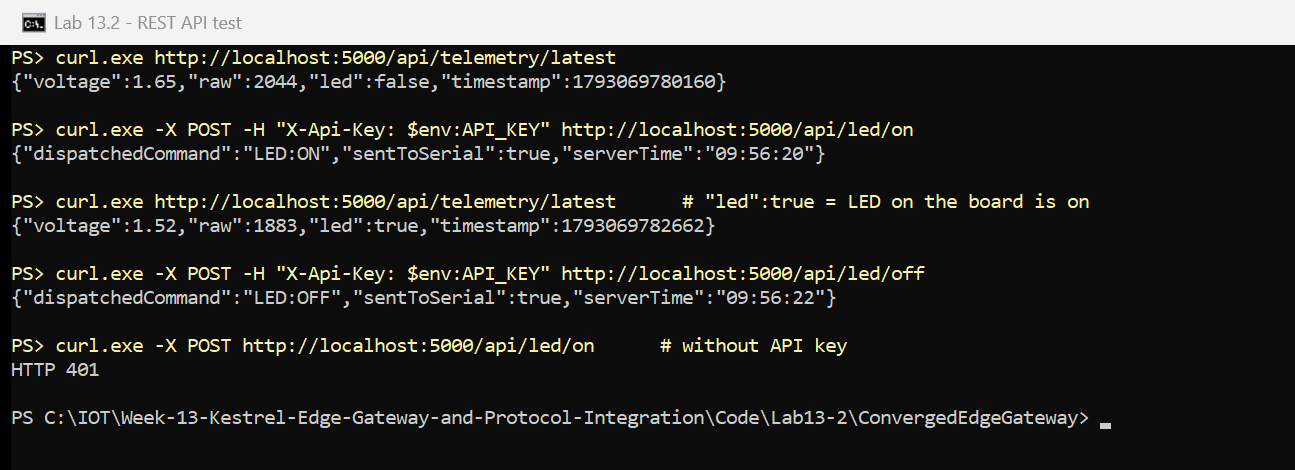
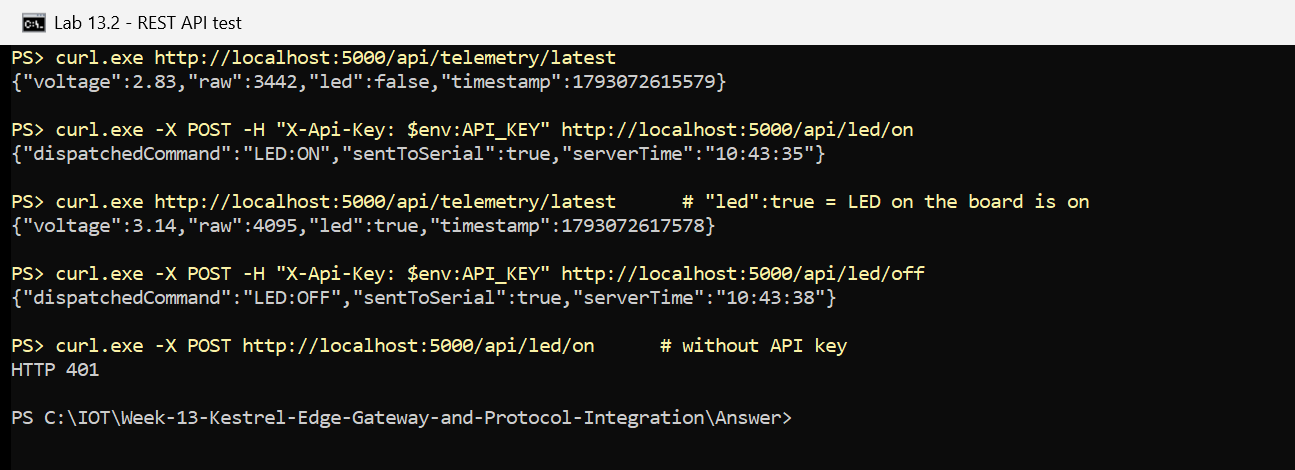
update: answer take pictures for lab 13-2.

diff --git a/Answer/Lab13-2.md b/Answer/Lab13-2.md
@@ -6,11 +6,11 @@
 
 | รายการ | ค่า |
 | :--- | :--- |
-| บอร์ด | ESP32-D0WD-V3 (revision v3.1), USB-UART Silicon Labs CP210x ที่ **COM3** |
+| บอร์ด | ESP32-D0WD-V3 (revision v3.1, MAC `14:33:5c:0e:7a:a8`), USB-UART Silicon Labs CP210x ที่ **COM3** |
 | ESP-IDF | v6.1 (เฟิร์มแวร์ `Code/Lab13-2/esp32_serial_bridge`) |
 | ความเร็ว Serial | 115200 bps, 1 บรรทัด JSON ทุก 500 ms |
 | LED | GPIO2 (LED บนบอร์ด) |
-| ค่าเซนเซอร์ | **สุ่มค่า** (`CONFIG_LAB_SIMULATE_ADC=y`) เพราะไม่ได้ต่อ Potentiometer ที่ GPIO34 ดูหมายเหตุข้อ 2.1 |
+| เซนเซอร์ | ตัวต้านทานปรับค่าได้ (Potentiometer) ขากลาง → **GPIO34** (ADC1_CH6), ขาริม → 3V3 / GND อ่านค่าจริง (`CONFIG_LAB_SIMULATE_ADC=n`) |
 | .NET / แพ็กเกจ | .NET 10, MQTTnet 4.3.7.1207, System.IO.Ports 10.0.12 |
 | Mosquitto CLI | 2.1.2 (ใช้เป็น client ทดสอบเท่านั้น) |
 | วันที่ทดลอง | 27/10/2026 |
@@ -26,13 +26,14 @@ idf.py -p COM3 build flash
 
 ผล: `Chip type: ESP32-D0WD-V3 (revision v3.1)` และ `Hash of data verified.`
 
-ตอนแรกอ่านค่า GPIO34 ได้ `raw = 0` ตลอด เพราะไม่ได้ต่อ Potentiometer จึงเปิดตัวเลือก `CONFIG_LAB_SIMULATE_ADC=y`
-ใน `sdkconfig.defaults` ให้บอร์ด **สุ่มค่า ADC แบบ random walk** (เปลี่ยนครั้งละ −150..+150 จากค่าเดิม ในช่วง 0–4095)
-ส่วนอื่นทำงานจริงทั้งหมด ได้แก่ การส่ง JSON ทางสาย USB, การรับคำสั่ง `LED:ON`/`LED:OFF` และการเปิด-ปิด LED บน GPIO2
-ถ้าต่อ Potentiometer แล้ว ให้แก้เป็น `CONFIG_LAB_SIMULATE_ADC=n` แล้วแฟลชใหม่
+เฟิร์มแวร์อ่าน ADC 12-bit (0–4095) ที่ Attenuation 12 dB เฉลี่ย 8 ครั้งต่อค่า และแปลงเป็นแรงดันด้วย ADC calibration (line fitting)
 
-ทดสอบสาย Serial ก่อนต่อเกตเวย์: บอร์ดส่ง `{"voltage":1.62,"raw":2013,"led":0}` ทุก 500 ms และเมื่อส่ง `LED:ON`
-ค่า `"led"` เปลี่ยนเป็น `1` และ LED บนบอร์ดติด
+ทดสอบสาย Serial ก่อนต่อเกตเวย์: บอร์ดส่ง `{"voltage":1.30,"raw":1603,"led":0}` ทุก 500 ms ค่าเปลี่ยนตามการหมุน
+และเมื่อส่ง `LED:ON` ค่า `"led"` เปลี่ยนเป็น `1` และ LED บนบอร์ดติด
+
+> ตอนแรกอ่านค่าได้ `raw = 0` ตลอด ตรวจด้วยเฟิร์มแวร์ชั่วคราวที่สแกนทุกขา ADC1 พบว่า ADC ปกติ แต่ GPIO34 ติดกับ GND
+> หลังแก้สายตัวต้านทานแล้วอ่านค่าได้ปกติ (เฟิร์มแวร์มีตัวเลือก `CONFIG_LAB_SIMULATE_ADC=y` ไว้สุ่มค่าเมื่อไม่มีตัวต้านทาน
+> แต่การทดลองนี้ใช้ค่าจริง)
 
 ### 2.2 ติดตั้งคอมโพเนนต์และเขียนโค้ด (กิจกรรม 13-2.1 – 13-2.3)
 
@@ -91,15 +92,15 @@ curl.exe -X POST -H "X-Api-Key: $env:API_KEY" http://localhost:5000/api/led/on
 | ขั้นตอน | ผลที่คาดหวัง (ใบงาน) | ผลจริง | ผ่าน/ไม่ผ่าน |
 | :--- | :--- | :--- | :--- |
 | `dotnet run` ขณะเสียบบอร์ด | เปิด Serial Port ได้ | `✅ เชื่อมต่อฮาร์ดแวร์ Serial Port COM3 สำเร็จ!` | ☑ ผ่าน |
-| `curl.exe .../api/telemetry/latest` | ได้ JSON แรงดันทันที | `{"voltage":1.65,"raw":2044,"led":false,"timestamp":...}` | ☑ ผ่าน |
-| `mosquitto_sub iot/esp32/telemetry` | ข้อมูลจาก Serial เข้า MQTT อัตโนมัติ | ได้ข้อความทุก 500 ms เช่น `{"voltage":1.24,"raw":1534,"led":false,"ts":...}` | ☑ ผ่าน |
+| `curl.exe .../api/telemetry/latest` | ได้ JSON แรงดันทันที | `{"voltage":2.83,"raw":3442,"led":false,"timestamp":...}` | ☑ ผ่าน |
+| `mosquitto_sub iot/esp32/telemetry` | ข้อมูลจาก Serial เข้า MQTT อัตโนมัติ | ได้ข้อความทุก 500 ms ขณะหมุนตัวต้านทาน แรงดันเพิ่มจาก 0.53 → 0.65 → 0.76 → 0.90 → 1.05 → 1.26 → 1.38 → 1.59 V (raw 483 → 1782) | ☑ ผ่าน |
 | `POST /api/led/on` | `LED:ON` ถูกส่งเข้าบอร์ด ไฟติด | `"dispatchedCommand":"LED:ON","sentToSerial":true` LED GPIO2 ติด และ telemetry ถัดมาเป็น `"led":true` | ☑ ผ่าน |
 | `POST /api/led/off` | ไฟดับ | `"sentToSerial":true` LED ดับ telemetry กลับเป็น `"led":false` | ☑ ผ่าน |
 | `POST /api/led/on` ไม่มี API key (ทดสอบเพิ่ม) | ถูกปฏิเสธ | `HTTP 401` | ☑ ผ่าน |
 
 **สรุป:** เกตเวย์ตัวเดียวแปลงข้อมูลจากสาย USB-UART ของ ESP32 ออกไปได้ 2 ทาง คือ MQTT topic (สำหรับ client ที่ subscribe)
 และ REST API (สำหรับระบบภายนอกที่ขอค่าล่าสุด) ทั้งยังส่งคำสั่งจาก REST ย้อนกลับลงสาย Serial ไปควบคุม LED ได้จริง
-(ค่าแรงดันในการทดลองนี้เป็นค่าสุ่มจากบอร์ด เพราะไม่ได้ต่อ Potentiometer)
+ค่าแรงดันทั้งหมดอ่านจากตัวต้านทานปรับค่าได้ที่ GPIO34 จริง และเปลี่ยนตามการหมุนแบบเรียลไทม์
 
 ## 4. คำถามท้ายการทดลอง
 

diff --git a/Answer/README.md b/Answer/README.md
@@ -5,7 +5,7 @@
 | ใบงาน | หัวข้อ | ไฟล์บันทึก | โค้ดที่ใช้ | สถานะ |
 | :--- | :--- | :--- | :--- | :--- |
 | 13.1 | Embedded MQTT Broker และ Client ภายใน Kestrel (MQTTnet) | [Lab13-1.md](Lab13-1.md) | `Code/Lab13-1` | ✅ ทดลองแล้ว |
-| 13.2 | Hardware Serial → MQTT และ REST Bridge | [Lab13-2.md](Lab13-2.md) | `Code/Lab13-2` | ✅ ทดลองแล้ว (บอร์ดจริง, ค่า ADC สุ่ม) |
+| 13.2 | Hardware Serial → MQTT และ REST Bridge | [Lab13-2.md](Lab13-2.md) | `Code/Lab13-2` | ✅ ทดลองแล้ว (บอร์ดจริง, ตัวต้านทานปรับค่าได้จริง) |
 | 13.3 | SignalR Hub และ Converged Web Dashboard | [Lab13-3.md](Lab13-3.md) | `Code/Lab13-3` | ✅ ทดลองแล้ว (บอร์ดจริง, ตัวต้านทานปรับค่าได้จริง) |
 | 13.4 | Grand Finale: ESP32 + Kestrel + Flutter + Web | [Lab13-4.md](Lab13-4.md) | `Code/Lab13-4` | ✅ ทดลองแล้ว (Verification Matrix ผ่านครบ 4 ข้อ, รอทดสอบตัดเน็ต) |
 
